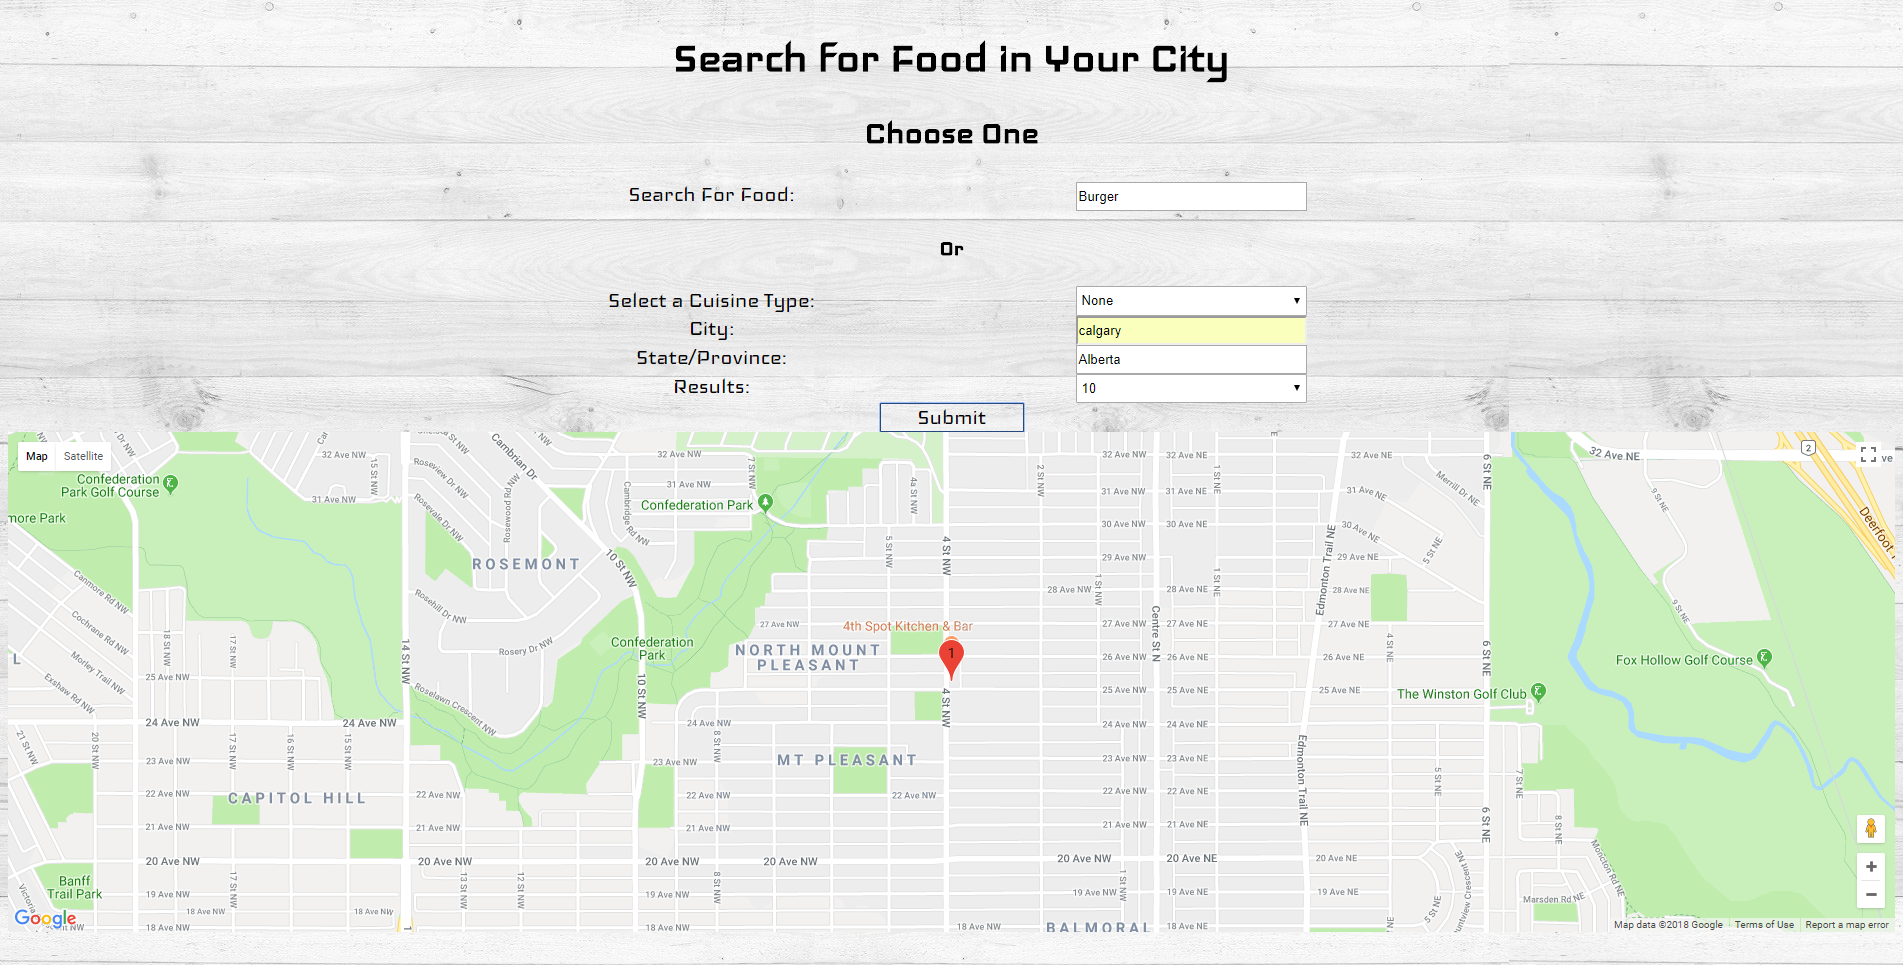
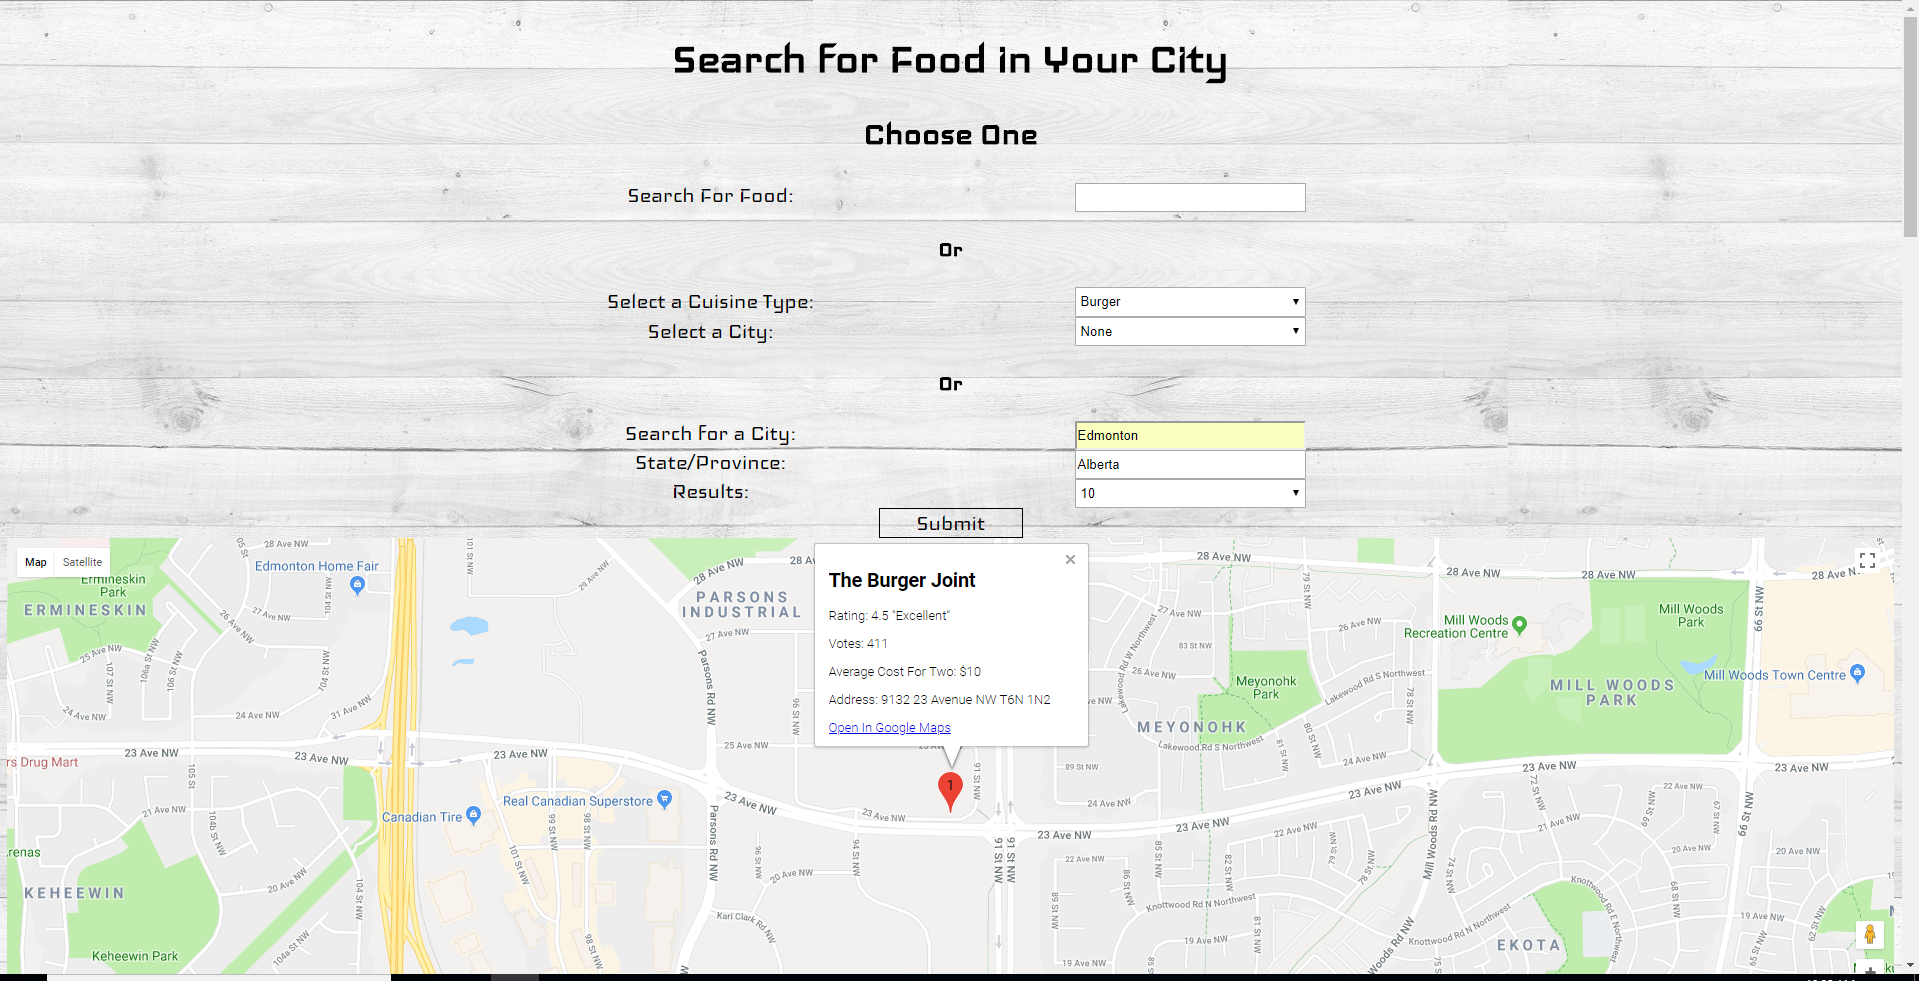
updated readme to reflect changes made to app

diff --git a/README.md b/README.md
@@ -12,7 +12,7 @@ https://michaeljoepeterson.github.io/FoodNearYou/
 
 ![map and results](screenshots/image2.PNG)
 
-This app allows the user to search for restaurants in their city based on the type of food they want to eat. It grabs the results from Zomato and displays those results as markers on the map, which is generated by Google Maps. It also lists out the results below the map and the user can click on the results which will center the map on the restaurant and display info about the restaurant.
+This app allows the user to search for restaurants in their city based on the type of food they want to eat. It grabs the results from Zomato and displays those results as markers on the map, which is generated by Google Maps. It also lists out the results below the map and the user can click on the results which will center the map on the restaurant and display info about the restaurant. Within the results and marker info windows there is a link to google maps which will automatically input the address of the restaurant and display it in google maps. As well, if you are on mobile it will open up the google maps app and display the restaurant location.
 
 ## Built With
 
